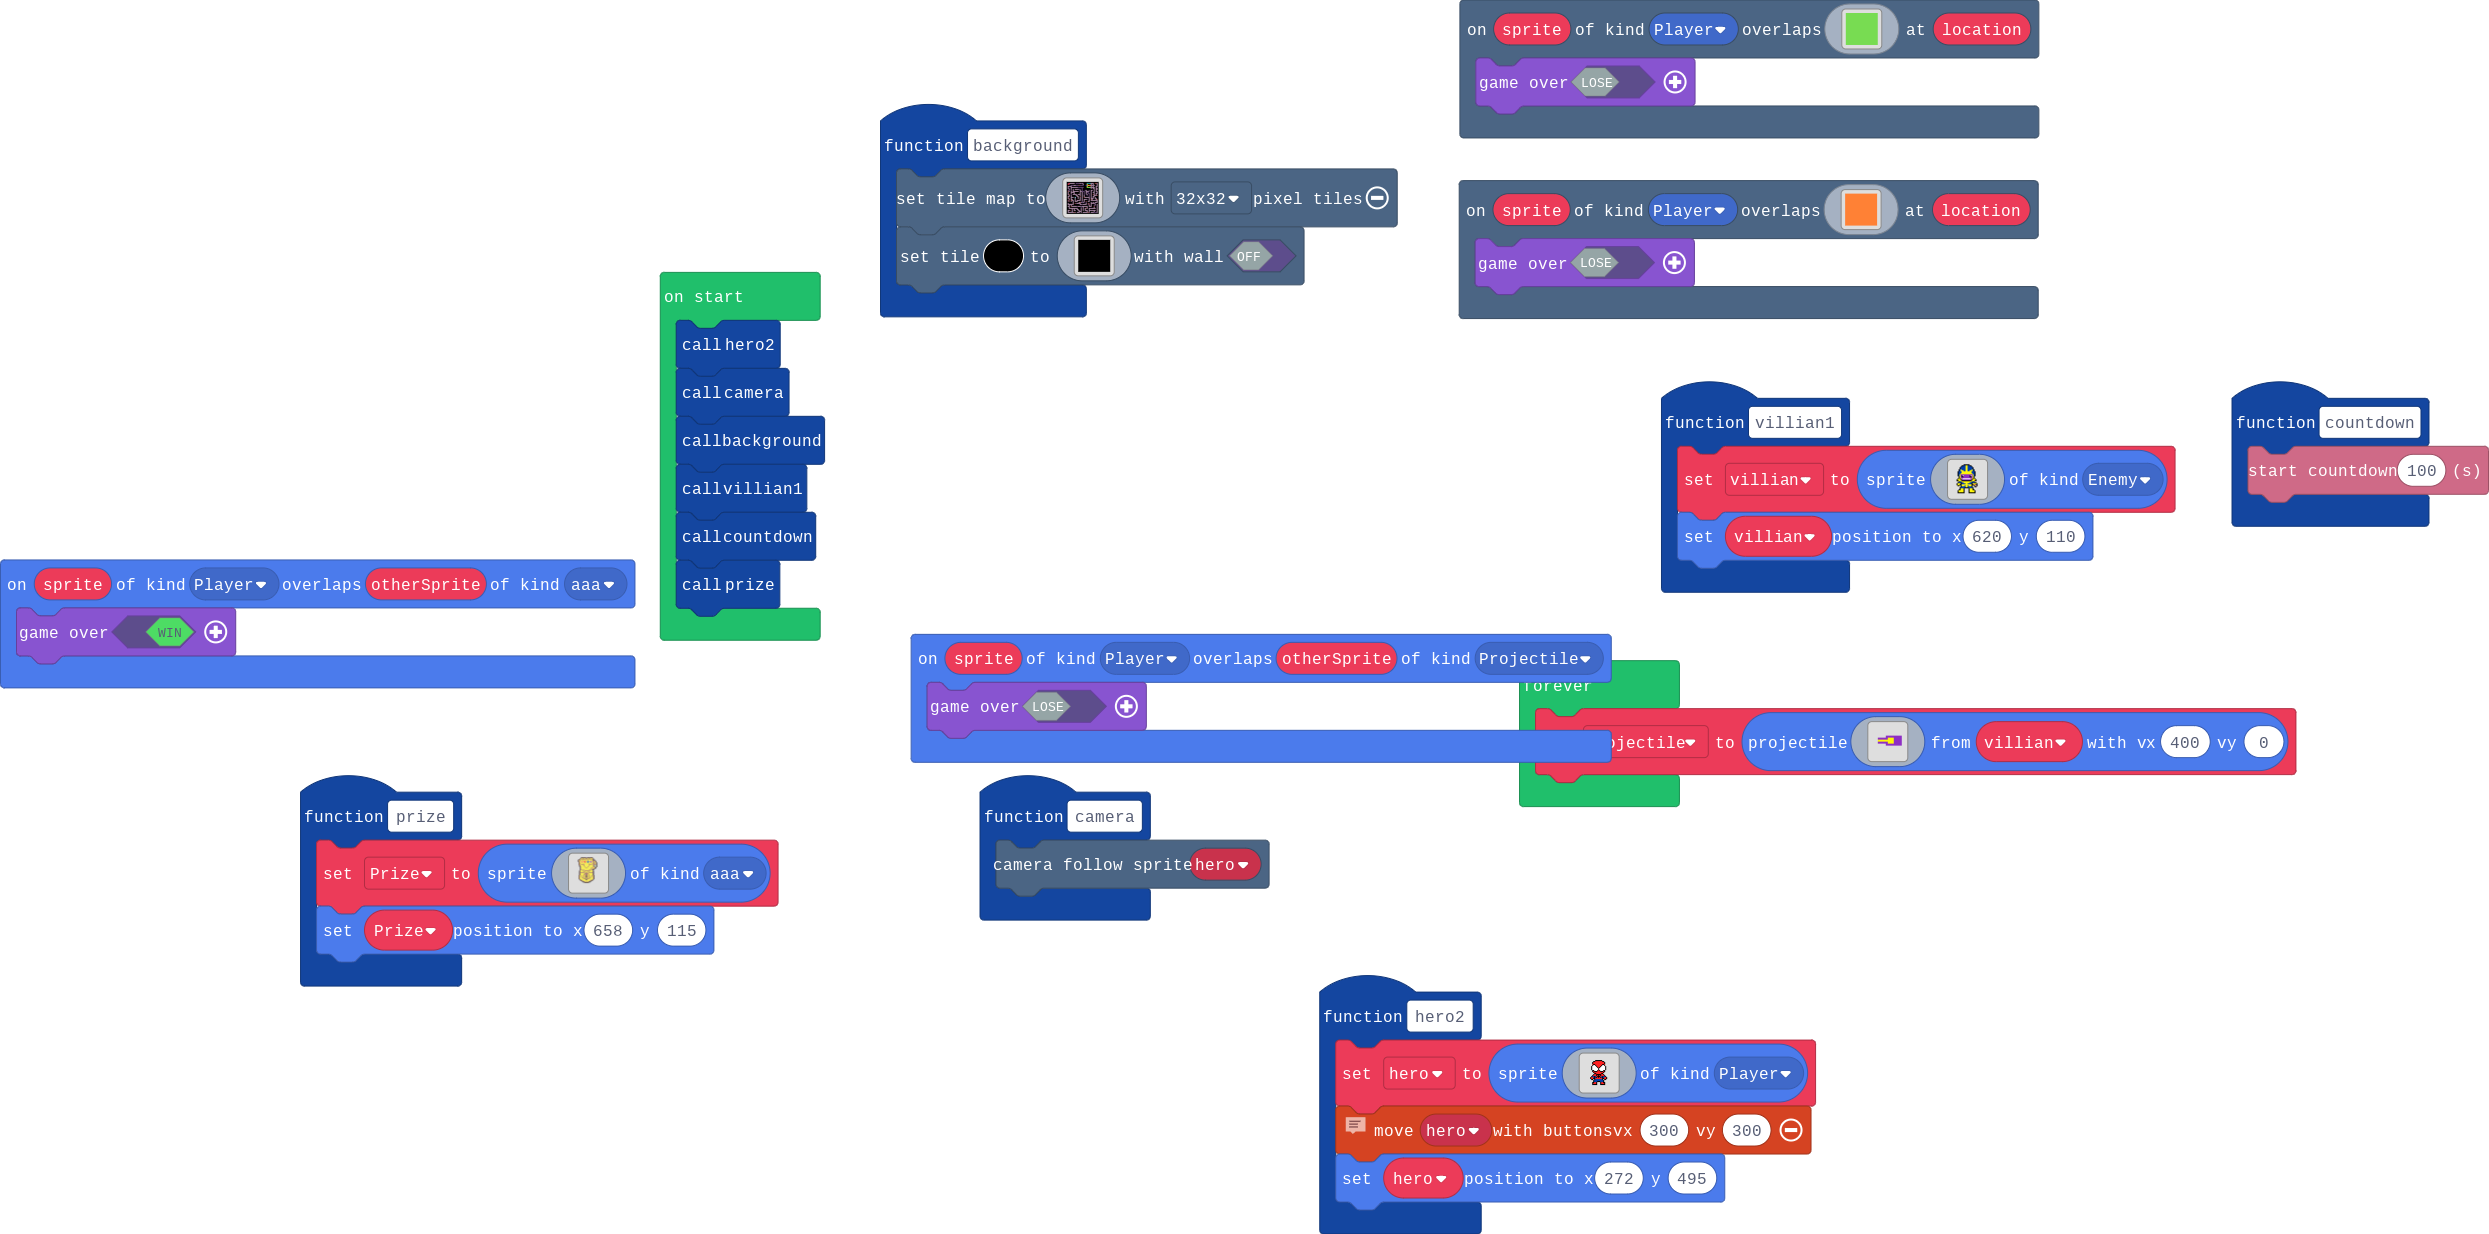
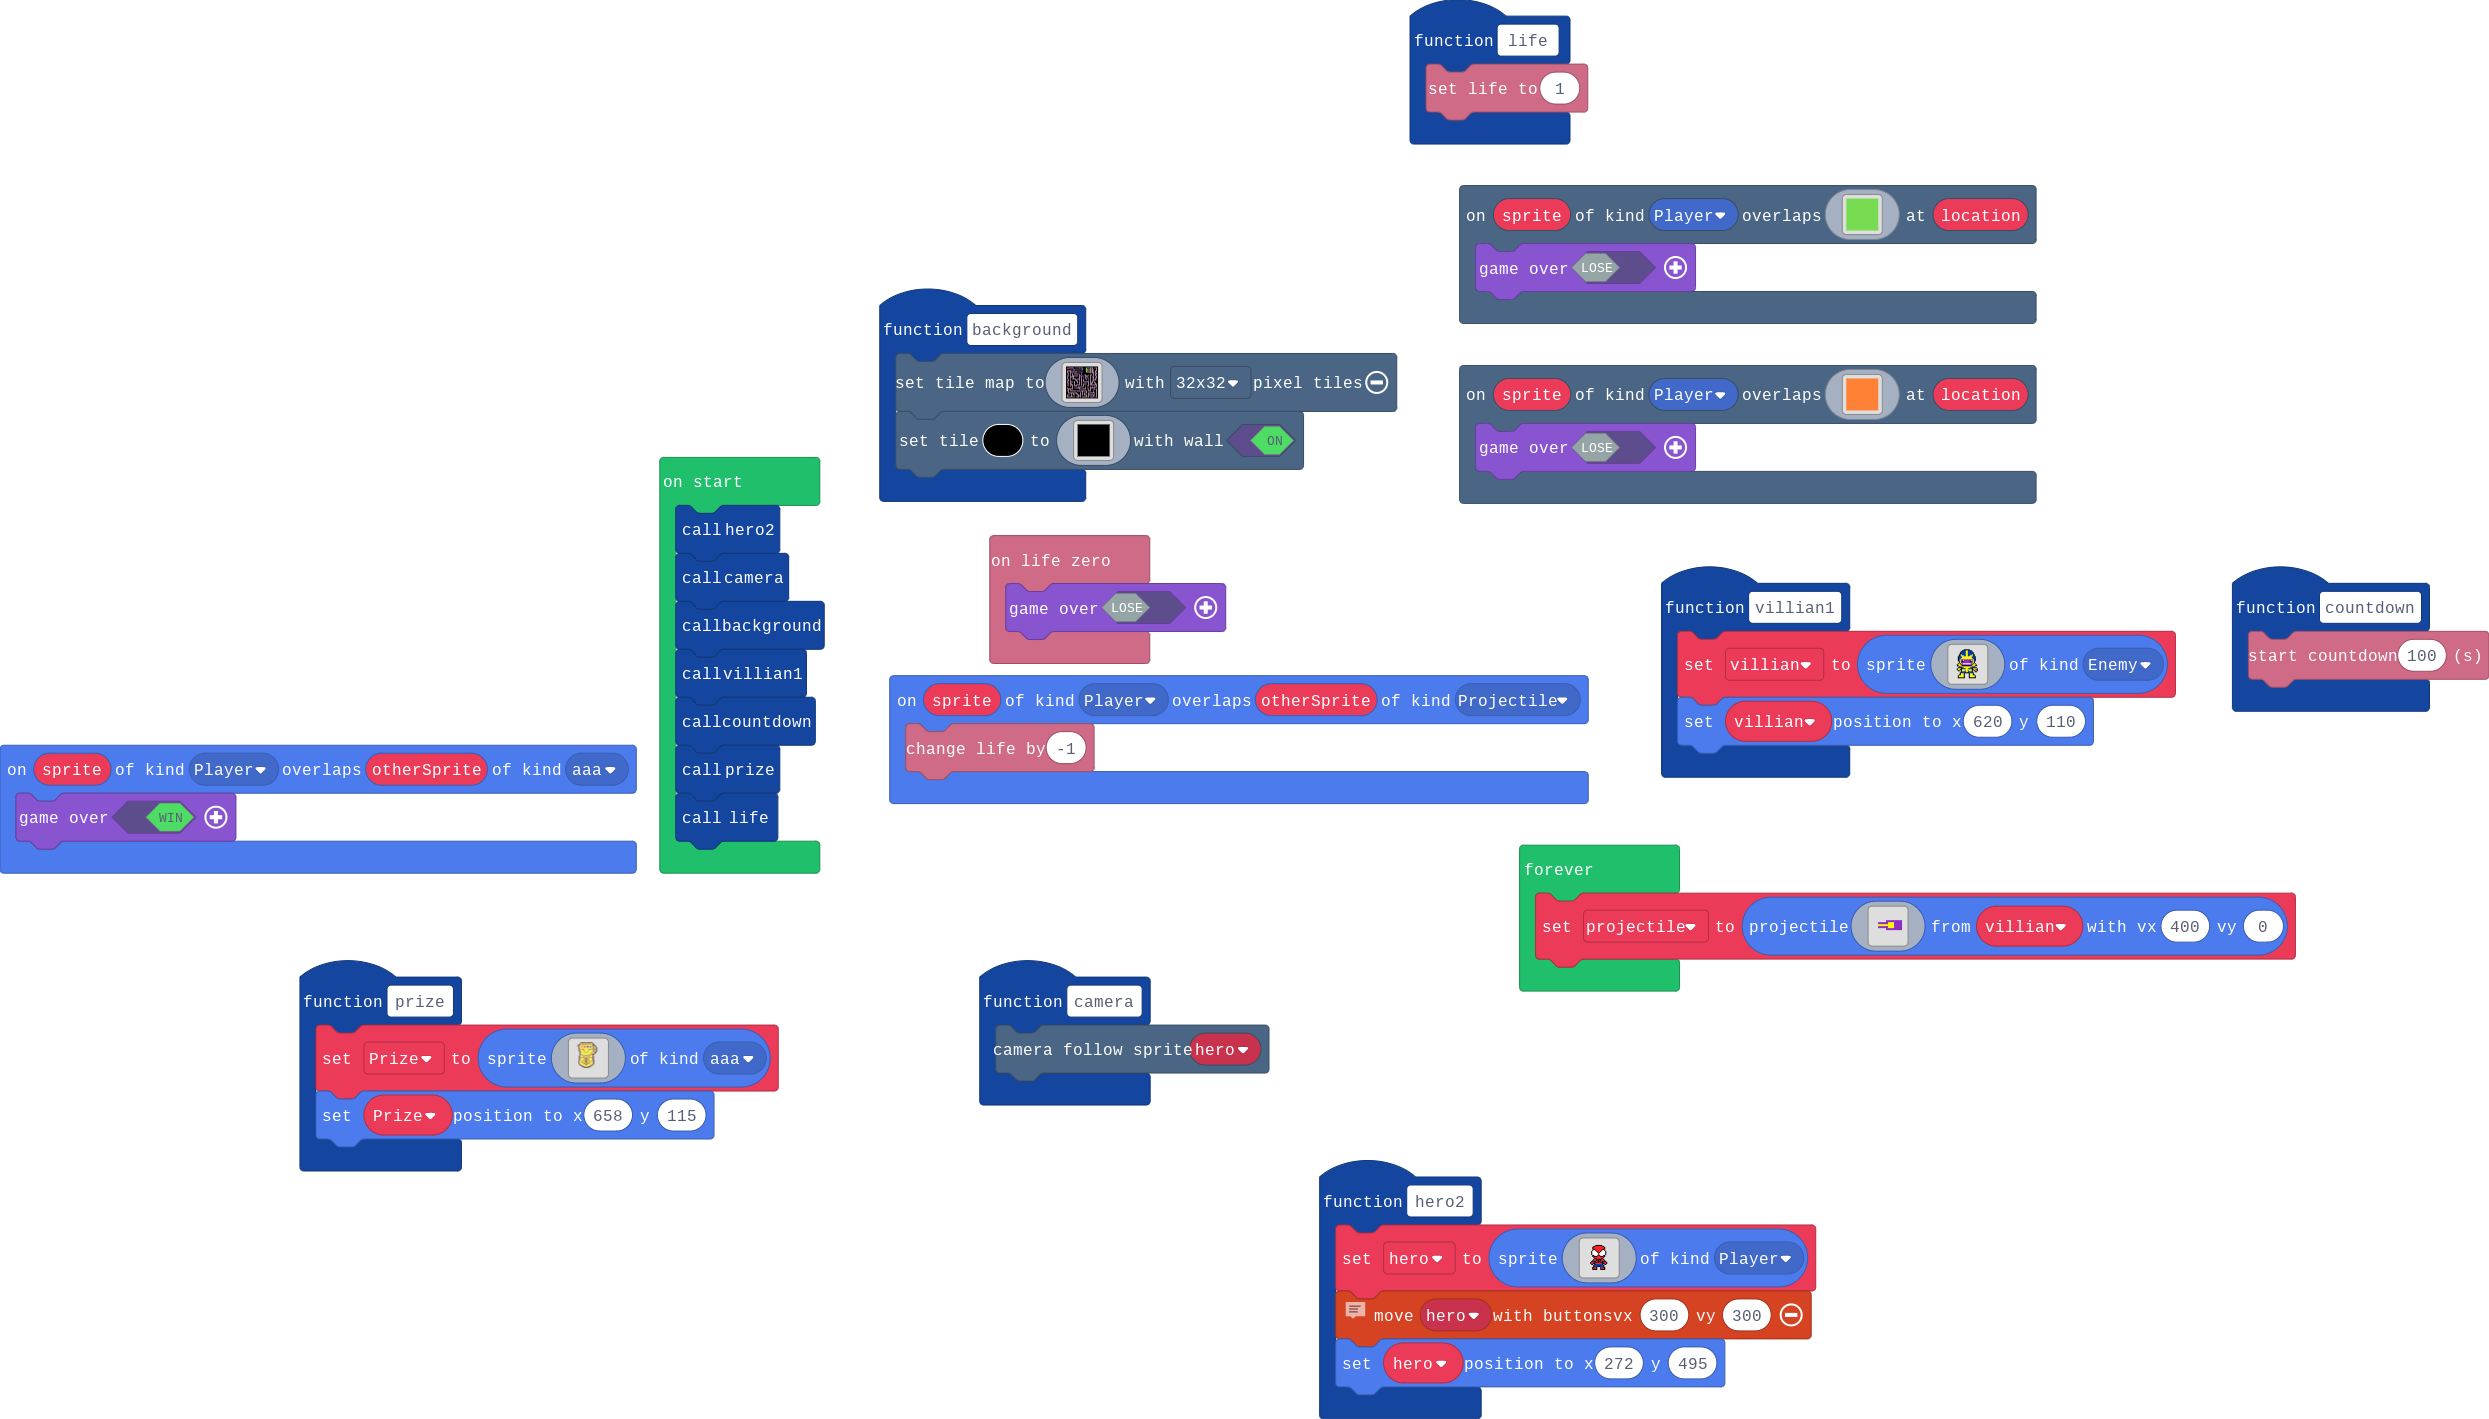
Update main.blocks, main.ts

diff --git a/main.ts b/main.ts
@@ -46,6 +46,9 @@ scene.onOverlapTile(SpriteKind.Player, img`
 sprites.onOverlap(SpriteKind.Player, SpriteKind.aaa, function (sprite, otherSprite) {
     game.over(true)
 })
+function life () {
+    info.setLife(1)
+}
 function hero2 () {
     hero = sprites.create(img`
 . . . . . . . . . . . . . . . . . . . . . . . . . . . . . . . . 
@@ -140,7 +143,7 @@ f f f f f f f f f f f f f f f f
 f f f f f f f f f f f f f f f f 
 f f f f f f f f f f f f f f f f 
 f f f f f f f f f f f f f f f f 
-`, false)
+`, true)
 }
 function camera () {
     scene.cameraFollowSprite(hero)
@@ -166,7 +169,7 @@ scene.onOverlapTile(SpriteKind.Player, img`
     game.over(false)
 })
 sprites.onOverlap(SpriteKind.Player, SpriteKind.Projectile, function (sprite, otherSprite) {
-    game.over(false)
+    info.changeLifeBy(-1)
 })
 function prize () {
     Prize = sprites.create(img`
@@ -258,6 +261,9 @@ function villian1 () {
 `, SpriteKind.Enemy)
     villian.setPosition(620, 110)
 }
+info.onLifeZero(function () {
+    game.over(false)
+})
 let projectile: Sprite = null
 let villian: Sprite = null
 let Prize: Sprite = null
@@ -268,6 +274,7 @@ background()
 villian1()
 countdown()
 prize()
+life()
 forever(function () {
     projectile = sprites.createProjectileFromSprite(img`
 . . . . . . . . . . . . . . . . 
